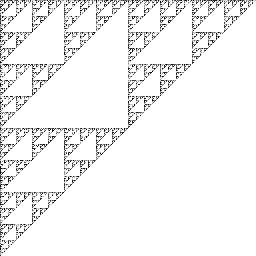
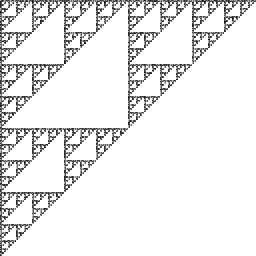
readme updated

Changed region(s): [[0.0, 0.0, 1.0, 1.0]]

diff --git a/complexcgr/fcgr.py b/complexcgr/fcgr.py
@@ -84,7 +84,8 @@ class FCGR(CGR):
         
         # invert colors black->white
         img_array = np.ceil(self.max_color - img_rescaled*self.max_color)
-        img_array = np.array(img_array, dtype="uint8")
+        dtype = eval(f"np.int{self.bits}")
+        img_array = np.array(img_array, dtype=dtype)
         
         # convert to Image 
         img_pil = Image.fromarray(img_array,'L')

diff --git a/README.md b/README.md
@@ -10,6 +10,7 @@ A list of available classes and functionalities are listed below:
   - [x] generate FCGR from an arbitrary n-long sequence.
   - [x] plot FCGR.
   - [x] save FCGR generated.
+  - [x] save FCGR in different bits.
 - [x] `iCGR` integer CGR: encodes a DNA sequence in 3 integers $(N,x,y)$. 
   - [x] encode a sequence
   - [x] recover a sequence from an iCGR encoding
@@ -64,8 +65,14 @@ You can save the image with
 ```python
 fcgr.save(chaos, path="img/ACG.jpg")
 ```
-
 *Formats allowed are defined by PIL.*
+
+You can also generate the image in 16 (or more bits), to avoid losing information of k-mer frequencies
+```python
+# Generate image in 16-bits (default is 8-bits)
+fcgr = FCGR(k=8, bits=16) # (256x256) image with range of colors in [0,65535]
+```
+
 
 ```python
 # Generate a random sequence without T's and lots of N's
